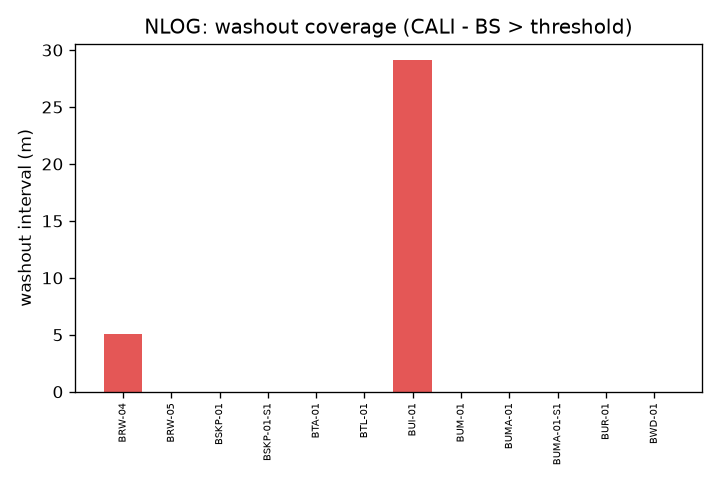
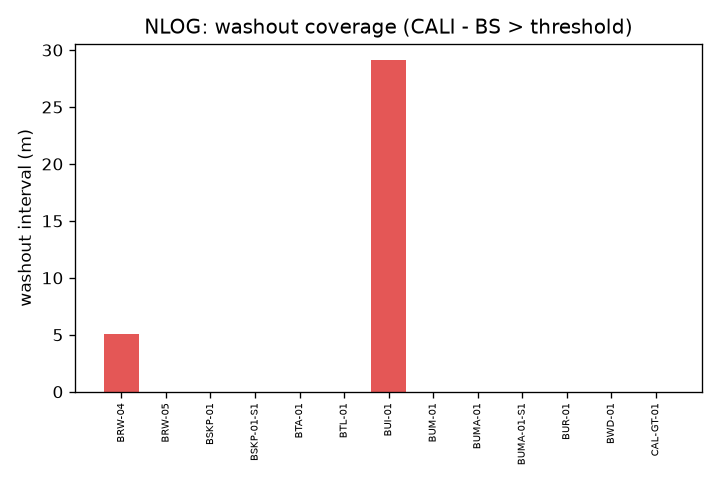
Fix DLIS-stall with process-based hard read timeout; rebuild pre-crawl conditions (backoff, guards, dlisio dep, license entry)

diff --git a/reports/qc_nlog/index.html b/reports/qc_nlog/index.html
@@ -3,10 +3,10 @@
 <style>body{background:#111;color:#eee;font-family:system-ui,sans-serif;margin:2rem}
 img{max-width:100%;background:#fff;border-radius:8px;margin:1rem 0}.k{color:#8ab4f8}</style>
 </head><body><h1>NLOG QC dashboard</h1>
-<p>Wells processed: <span class="k">12</span>.
-Passed minimum-interval: <span class="k">5/12</span>.
+<p>Wells processed: <span class="k">13</span>.
+Passed minimum-interval: <span class="k">5/13</span>.
 Washout flagged: <span class="k">2</span>.
-No bit size (washout skipped): <span class="k">7</span>.</p>
+No bit size (washout skipped): <span class="k">8</span>.</p>
 <h2>Curve coverage</h2><img src="coverage.png">
 <h2>Depth coverage</h2><img src="depth_hist.png">
 <h2>Washout coverage</h2><img src="washout.png">